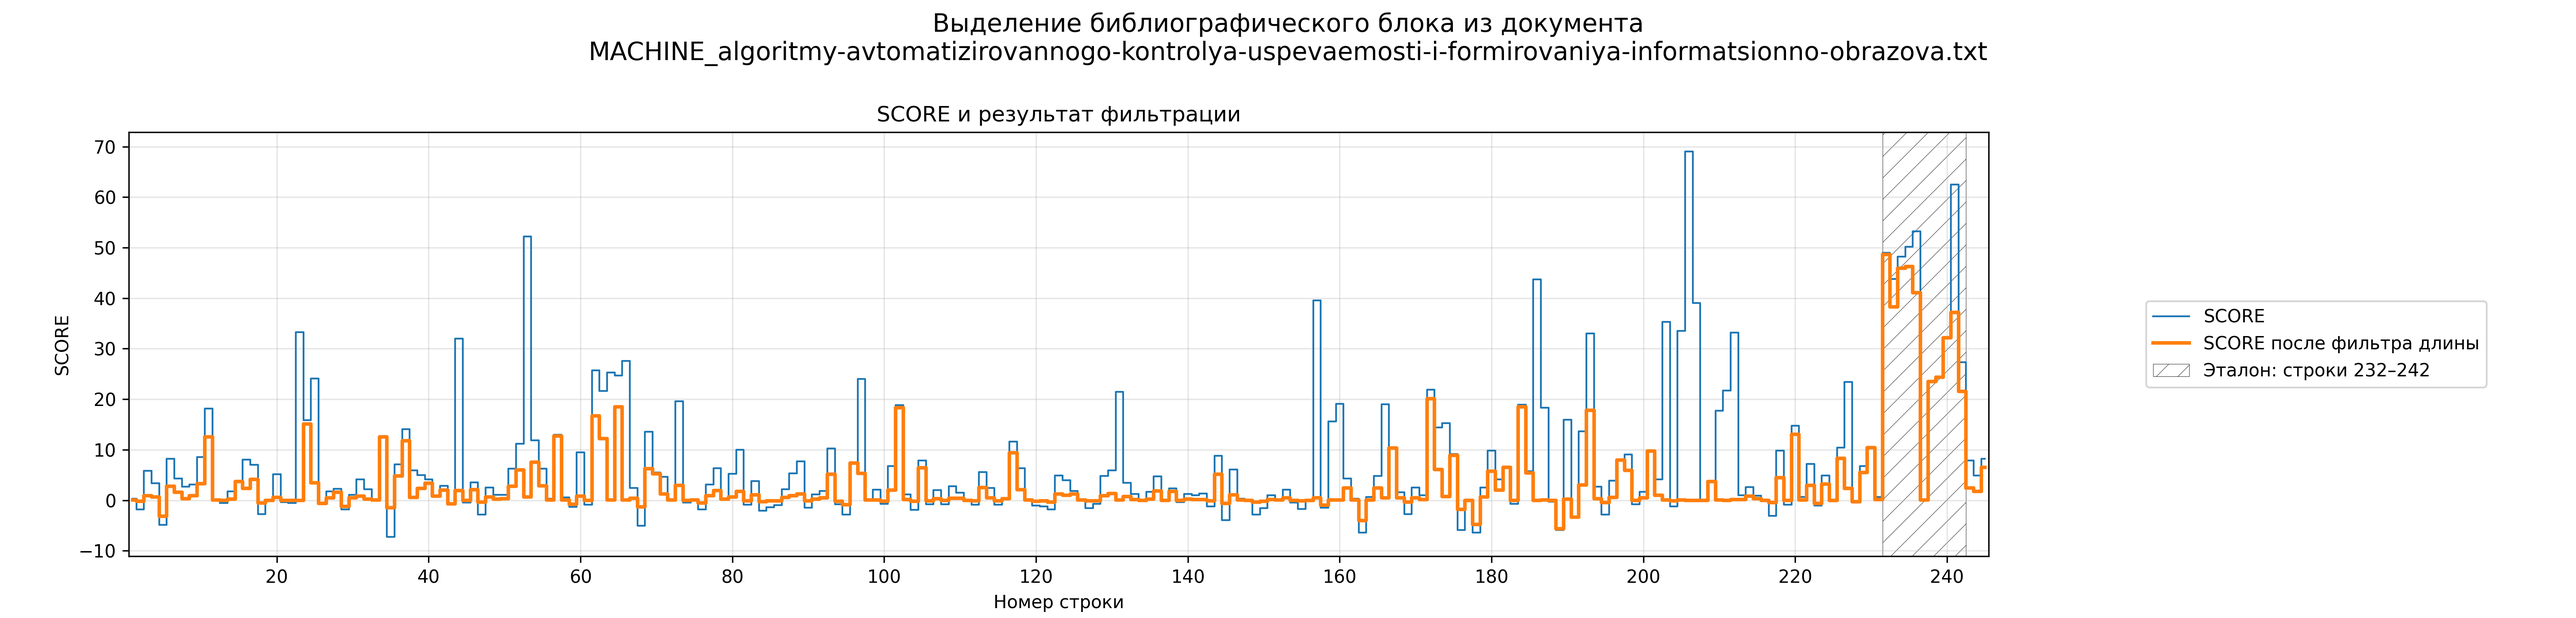
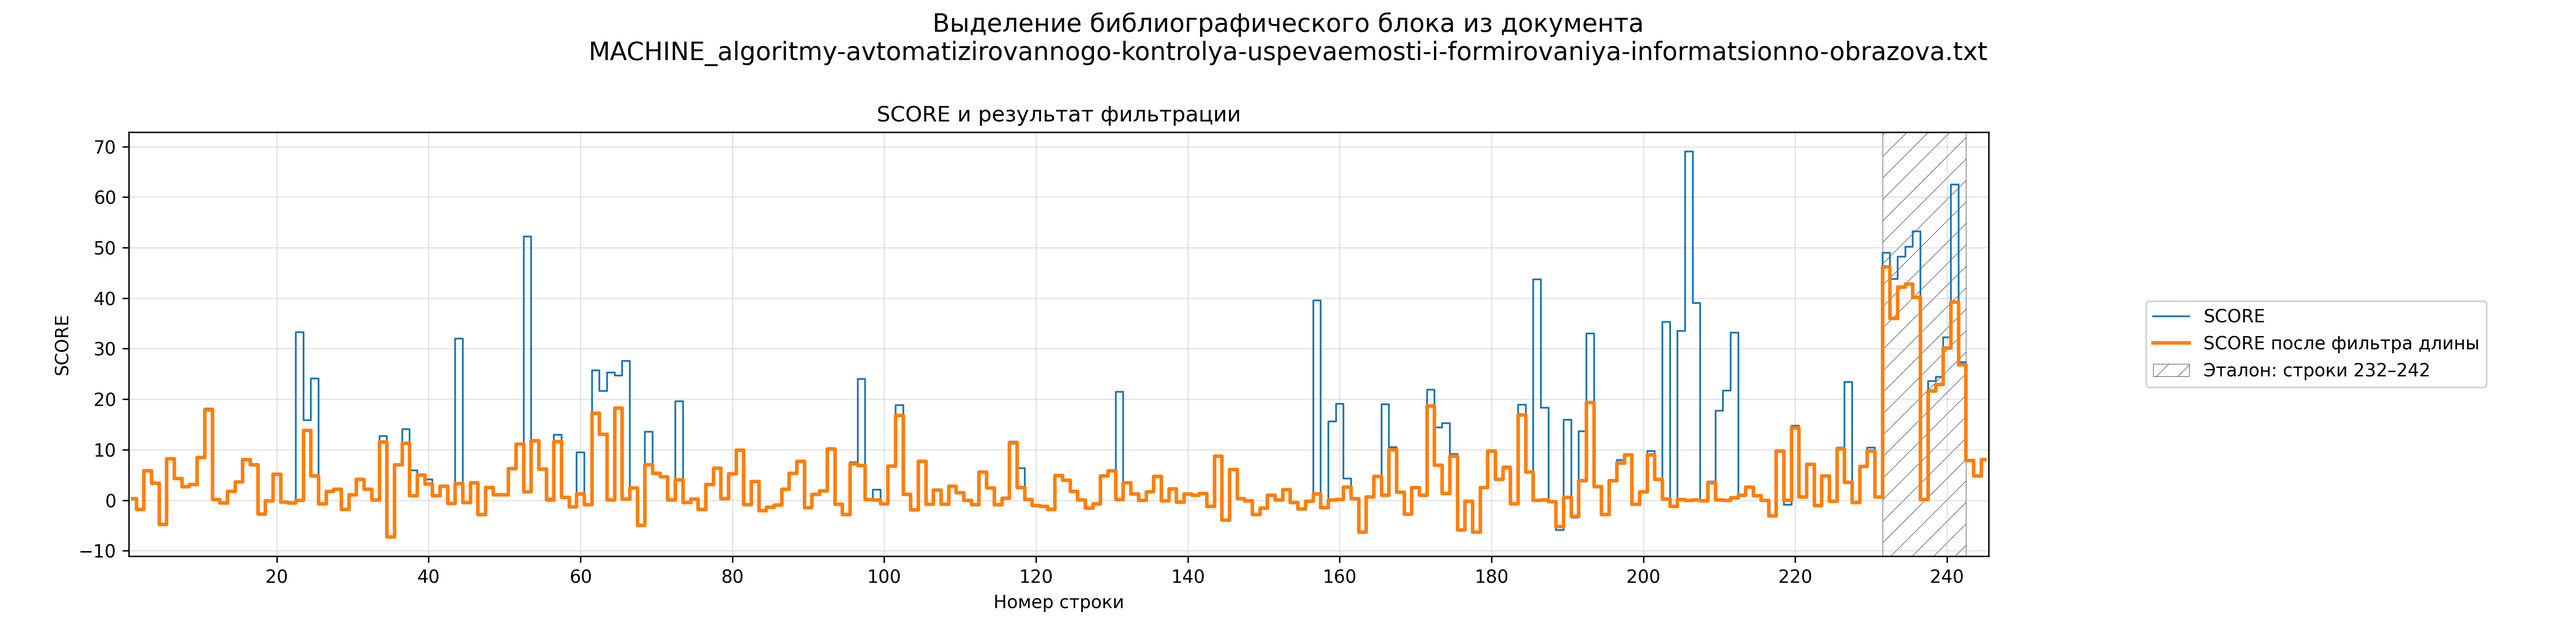
переписал отчёт. Походя улучшил модельку, исправил ошибку разметки

diff --git a/SoftWare/PythonWorkflow/VerifiedCode/localization/biblioBlockLocalization.py b/SoftWare/PythonWorkflow/VerifiedCode/localization/biblioBlockLocalization.py
@@ -13,7 +13,7 @@ import numpy as np
 CWT_MIN_SCALE = 1
 CWT_MAX_SCALE = 75
 
-CWT_MEAN_MULTIPLIER = 2
+CWT_MEAN_MULTIPLIER = 0
 
 LENGTH_SIGMA_1 = 50
 LENGTH_OFFSET_1 = 350
